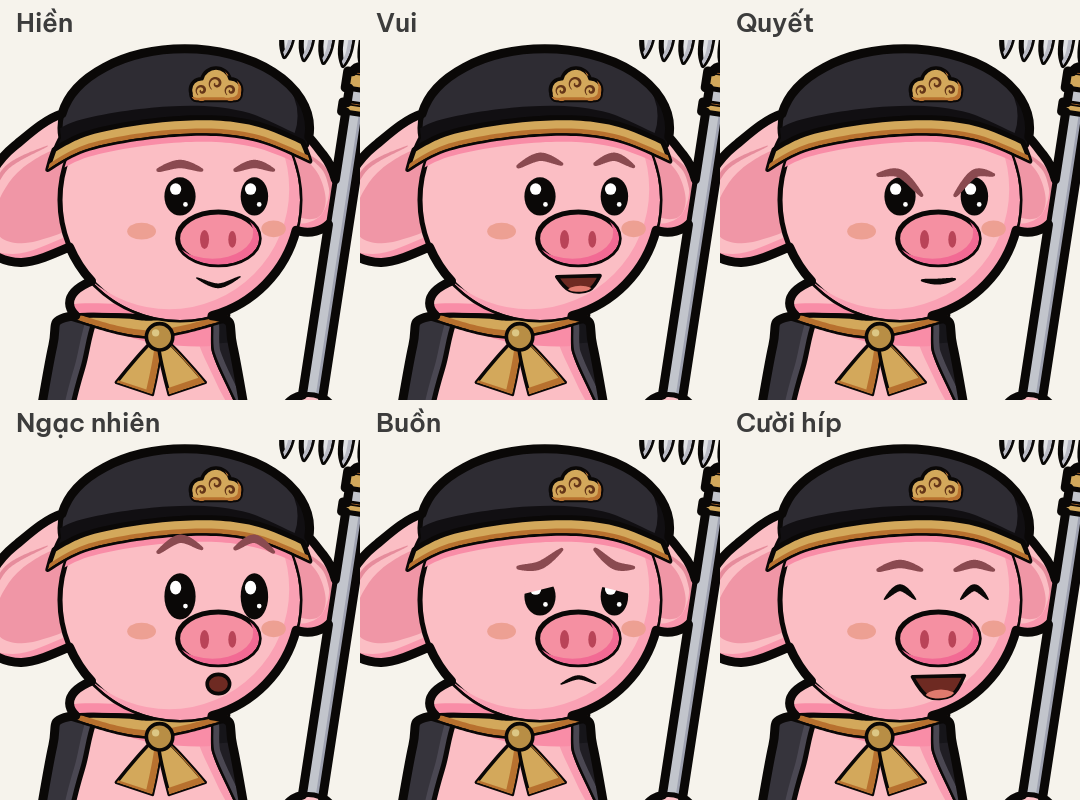
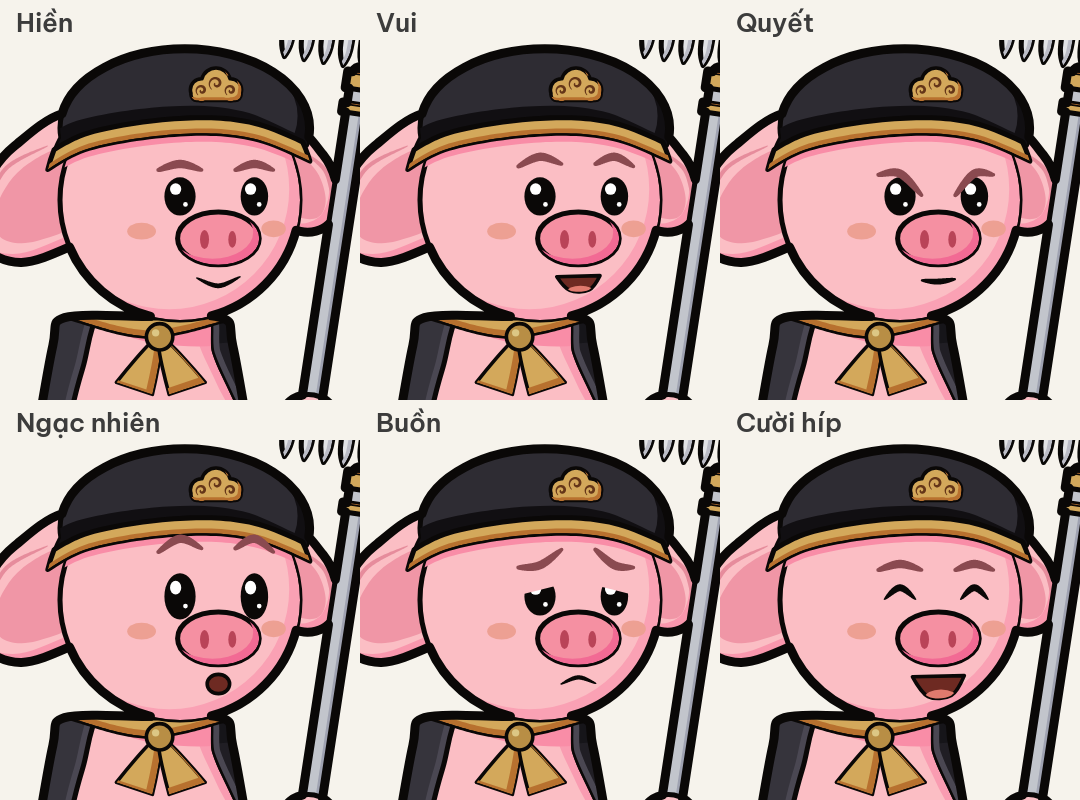
Đường Tăng + Bát Giới: bỏ phần cổ dư bên trái cằm (gọn như Ngộ Không)
- Bỏ co_nguoi ở 2 spec; co_nguoi giờ cắt gọn trong bề ngang vai nếu dùng
- Khăn cổ Bát Giới cắt trong thân; bụng lồi chỉ phình từ eo xuống
- Sa Tăng / Ngộ Không không đổi điểm ảnh nào

diff --git a/scripts/hoathinh/but/bo_phan.py b/scripts/hoathinh/but/bo_phan.py
@@ -53,7 +53,8 @@ def co_nguoi(b, k, S):
     dx, dy, rx, ry = S['co_nguoi']
     da = S['mau']['da']
     h = elip(*k.H(dx, dy), k.r(rx), k.r(ry))
-    b.khoi(h, da, 'trong')
+    h = h & k.than().phong(-k.r(0.16)).dich(0, -k.r(0.30))      # gọn trong bề ngang vai, không lòi ra cạnh cằm
+    b.khoi(h, da, 'trong', dang=False)
     b.to(h & k.than().dich(0, -k.r(0.10)), toi(da, 0.10))      # bóng cổ áo đổ lên cổ
     return h
 
@@ -440,6 +441,8 @@ def _bung(b, k, S):
     loi = A.get('bung_loi', False)                             # bụng phệ phình RA NGOÀI thân (rìa bóng dáng)
     if not loi:
         belly = belly & body
+    else:                                                      # chỉ phình ở eo/bụng, không nhú lên trên vai
+        belly = belly & (body + hop(k.bx - 3 * k.R, k.top + k.r(0.45), k.bx + 3 * k.R, k.bot + k.R))
     vat = m.get('vat', sang(m['ao'], 0.10))                    # viền vạt áo sáng hơn thân (đọc được trên nền tối)
     b.to(belly.phong(k.r(A.get('vat_day', 0.07))) & body, vat)
     b.khoi(belly, da, 'trong', dang=loi)
@@ -460,7 +463,7 @@ def khan_co(b, k, S):
     K_ = S['khan']
     c = S['mau'].get('khan', S['mau']['vang'])
     d = k.r(K_.get('day', 0.14))
-    dai = net_thuon(_pts_b(k, K_['duong']), d, d, d, dau_tron=False) & (k.than() + k.dau().phong(k.r(0.04)))
+    dai = net_thuon(_pts_b(k, K_['duong']), d, d, d, dau_tron=False) & k.than()
     b.khoi(dai, c, 'trong', dang=False)
     with b.cat(dai):
         b.bong(dai, toi(c, 0.14), 0, k.r(0.05))

diff --git a/scripts/hoathinh/but/nv/bat_gioi.py b/scripts/hoathinh/but/nv/bat_gioi.py
@@ -34,6 +34,5 @@ NV = dict(
     ),
     khan=dict(duong=[(-0.62, -0.08), (0.04, 0.08), (0.70, -0.06)], day=0.15, nut=(0.14, 0.16, 0.11),
               vat=[[(-0.22, 0.54), (0.08, 0.64)], [(0.22, 0.64), (0.52, 0.54)]]),
-    co_nguoi=(-0.30, 0.86, 0.62, 0.26),   # lấp khe cằm–vai trái
     vu_khi=dict(kieu='cao', tu=-0.66, den=0.66, thanh=0.17, rang_rong=0.09),
 )

diff --git a/scripts/hoathinh/but/nv/duong_tang.py b/scripts/hoathinh/but/nv/duong_tang.py
@@ -26,6 +26,5 @@ NV = dict(
     ),
     ao=dict(dai=(1.22, 1.38), v=(0.22, 0.46), gau=1.90, nep=[],
             ca_sa=dict(cheo=((-1.30, -0.89), (1.30, 1.84)), duoi=1.90, o=0.22, gach=0.45)),
-    co_nguoi=(-0.30, 0.86, 0.62, 0.26),
     vu_khi=dict(kieu='tich_truong', khoen_r=0.13, khoen_lo=0.46, vong_s=0.68),
 )

diff --git a/docs/nhan-vat/but/bat-gioi-cham.md b/docs/nhan-vat/but/bat-gioi-cham.md
@@ -23,3 +23,6 @@ Mài thêm sau khi đạt (không chấm lại):
 - Miệng mặc định `cuoi_mo` (khoái chí); bỏ đốm sáng trên mõm (luật 4); rốn to + rõ hơn `#D9708A`.
 
 Chốt → `assets/nhan-vat/but/bat-gioi.png` + `bat-gioi-bieu-cam.png`.
+
+## Sửa sau duyệt mắt – 20/11/2026
+Người dùng: cổ "bị dư ra". Bỏ `co_nguoi` (cổ màu da lòi bên trái cằm) – để trống như Ngộ Không đã duyệt; khăn cổ cắt gọn trong thân; bụng lồi chỉ phình từ eo xuống (không nhú lên vai).

diff --git a/docs/nhan-vat/but/duong-tang-cham.md b/docs/nhan-vat/but/duong-tang-cham.md
@@ -22,3 +22,6 @@ Mài thêm sau khi đạt (không chấm lại):
 - Gấu áo dùng chung màu áo `#E6A91E` (gom sắc vàng).
 
 Chốt → `assets/nhan-vat/but/duong-tang.png` + `duong-tang-bieu-cam.png`.
+
+## Sửa sau duyệt mắt – 20/11/2026
+Người dùng: cổ "bị dư ra". Bỏ `co_nguoi` (cục cổ màu da lòi bên trái cằm) – để trống như Ngộ Không đã duyệt (dải mũ đã buông sau đầu nên không còn nêm đen).
